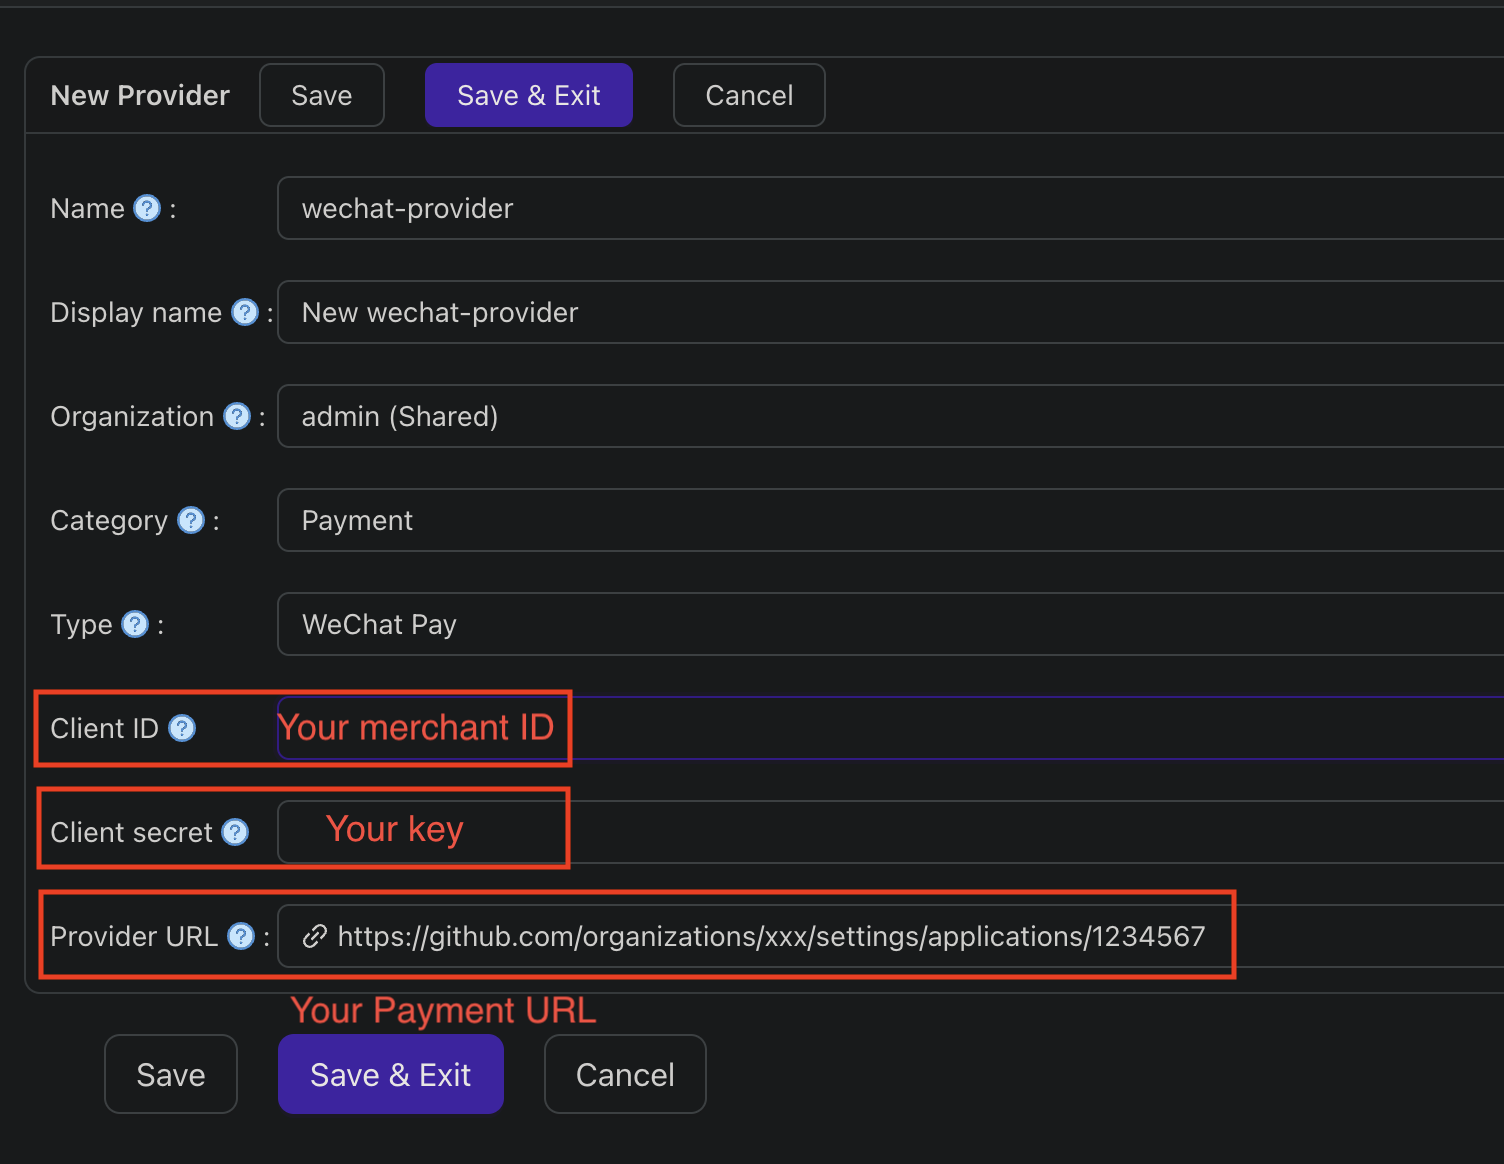
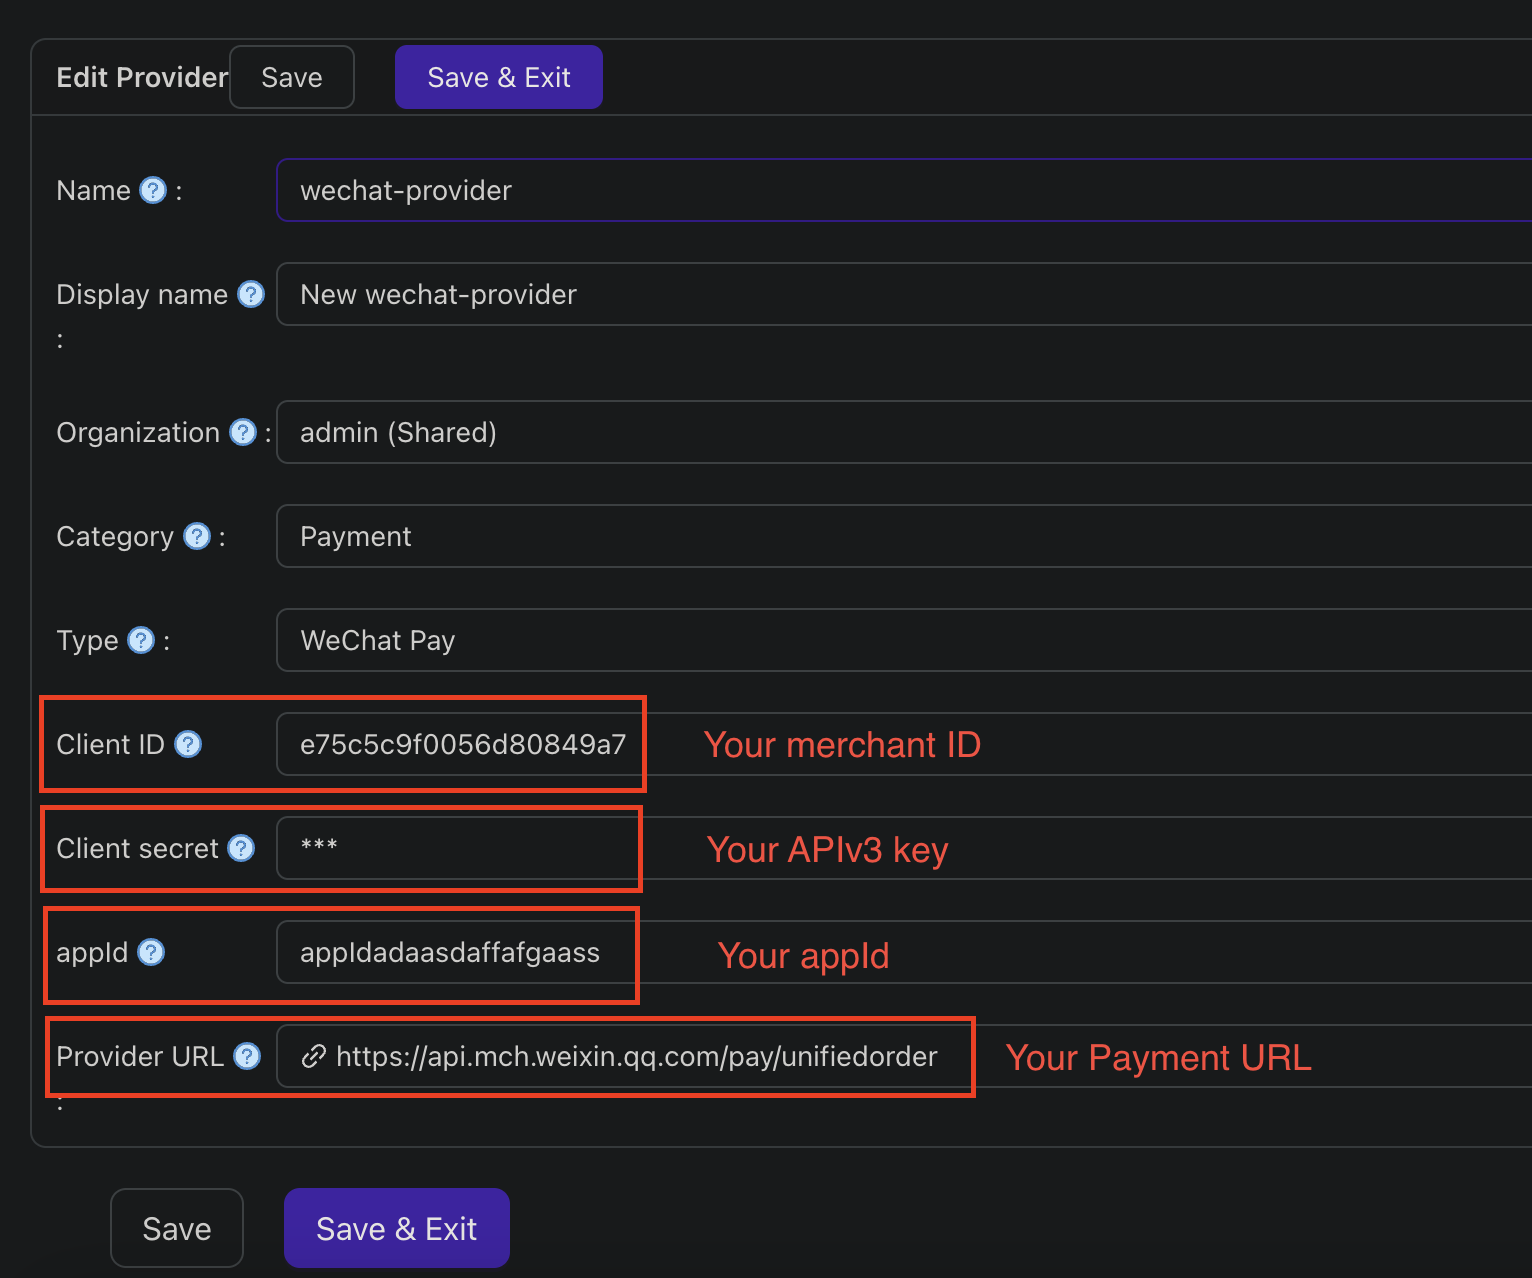
fix: Improve WeChat payment documents (#456)
* docs: add docs for WeChat Pay.

* docs: Perfect WeChat payment docs.

* fix: Improve WeChat payment docs.

diff --git a/docs/provider/payment/WeChatPay.md b/docs/provider/payment/WeChatPay.md
@@ -28,11 +28,16 @@ https://your-casdoor-instance.com/api/wechat-payment-callback
 ```
 
 ## Step3. Configure API Security
-To ensure the security of API calls, you need to configure AP1 security settings in the WeChat Pay Merchant Platform. 
+### Get APIv3 key
+To ensure the security of API calls, you need to configure API security settings in the WeChat Pay Merchant Platform. 
 
 Log in the [WeChat merchant platform](https://pay.weixin.qq.com/) -> `Account center` -> `Account settings` -> `API security` -> `APIv3 key` -> `set up`
+### Get the serial number of the merchant certificate
+It is also necessary to obtain the serial number of the merchant certificate. The following are the steps to obtain it.
 
-You can refer to the [WeChat payment merchant ID query guide](https://kf.qq.com/faq/200729EZ7fEj200729aumYR7.html) and [APIv3 key settings](https://kf.qq.com/faq/180830E36vyQ180830AZFZvu.html) for help.
+Log in the [WeChat merchant platform](https://pay.weixin.qq.com/) -> `Account center` -> `Account settings` -> `API security` ->  `API certificate management` -> copy the serial number.
+
+You can refer to the [WeChat payment merchant ID query guide](https://kf.qq.com/faq/200729EZ7fEj200729aumYR7.html) , [APIv3 key settings](https://kf.qq.com/faq/180830E36vyQ180830AZFZvu.html) and [How to view the certificate serial number](https://pay.weixin.qq.com/wiki/doc/apiv3/wechatpay/wechatpay7_0.shtml#part-5) for help.
 
 ## Step4. Add payment provider
 ### Select the WeChat Pay as the Payment type.
@@ -44,22 +49,31 @@ Log in the [WeChat merchant platform](https://pay.weixin.qq.com/) -> `Commodity 
 
 ### Fill the necessary information in Casdoor
 
-There are three required fields. `Client ID`, `Client secret`, `Provider URL`. The relationship corresponding to the Azure Blob account is as follows:
+There are four required fields, `Client ID`, `Client secret`, `appId`, `Provider URL`. The relationship corresponding to the Azure Blob account is as follows:
 
 | Name          | Name in WeChat Pay |   is required |
 |---------------|--------------------|  ----         |
 | Client ID     | merchant ID        | required     |
 | Client secret | APIv3 key          | required      |
+| appId         | appId              | required      |
 | Provider URL  | Payment URL        | required      |
 
-The acquisition of `merchant ID` and `APIv3 key` is as mentioned before.
+The acquisition of `merchant ID` and `APIv3 key` is as mentioned before. For appId, see [here](https://pay.weixin.qq.com/static/pay_setting/appid_protocol.shtml) for more help.
 
 ![wechat_provider](/img/providers/payment/wechat_Provider.png)
+
+## Step5. Add WeChat Cert
+In this step, you need two required fields, `serial number`, `private key`. 
+
+How to obtain the serial number has been stated in the third step.
+
+To get `private key`, click [here](https://pay.weixin.qq.com/wiki/doc/apiv3/wechatpay/wechatpay3_1.shtml) for help.
+
+![wechat_cert](/img/providers/payment/wechat_cert.png)
 
 ## Step6. Add WeChat Payment Provider in Products
 
 ![wechat_provider](/img/providers/payment/wechat_products.png)
-
 
 Final effect:
 ![wechat_provider](/img/providers/payment/wechat_result.png)
